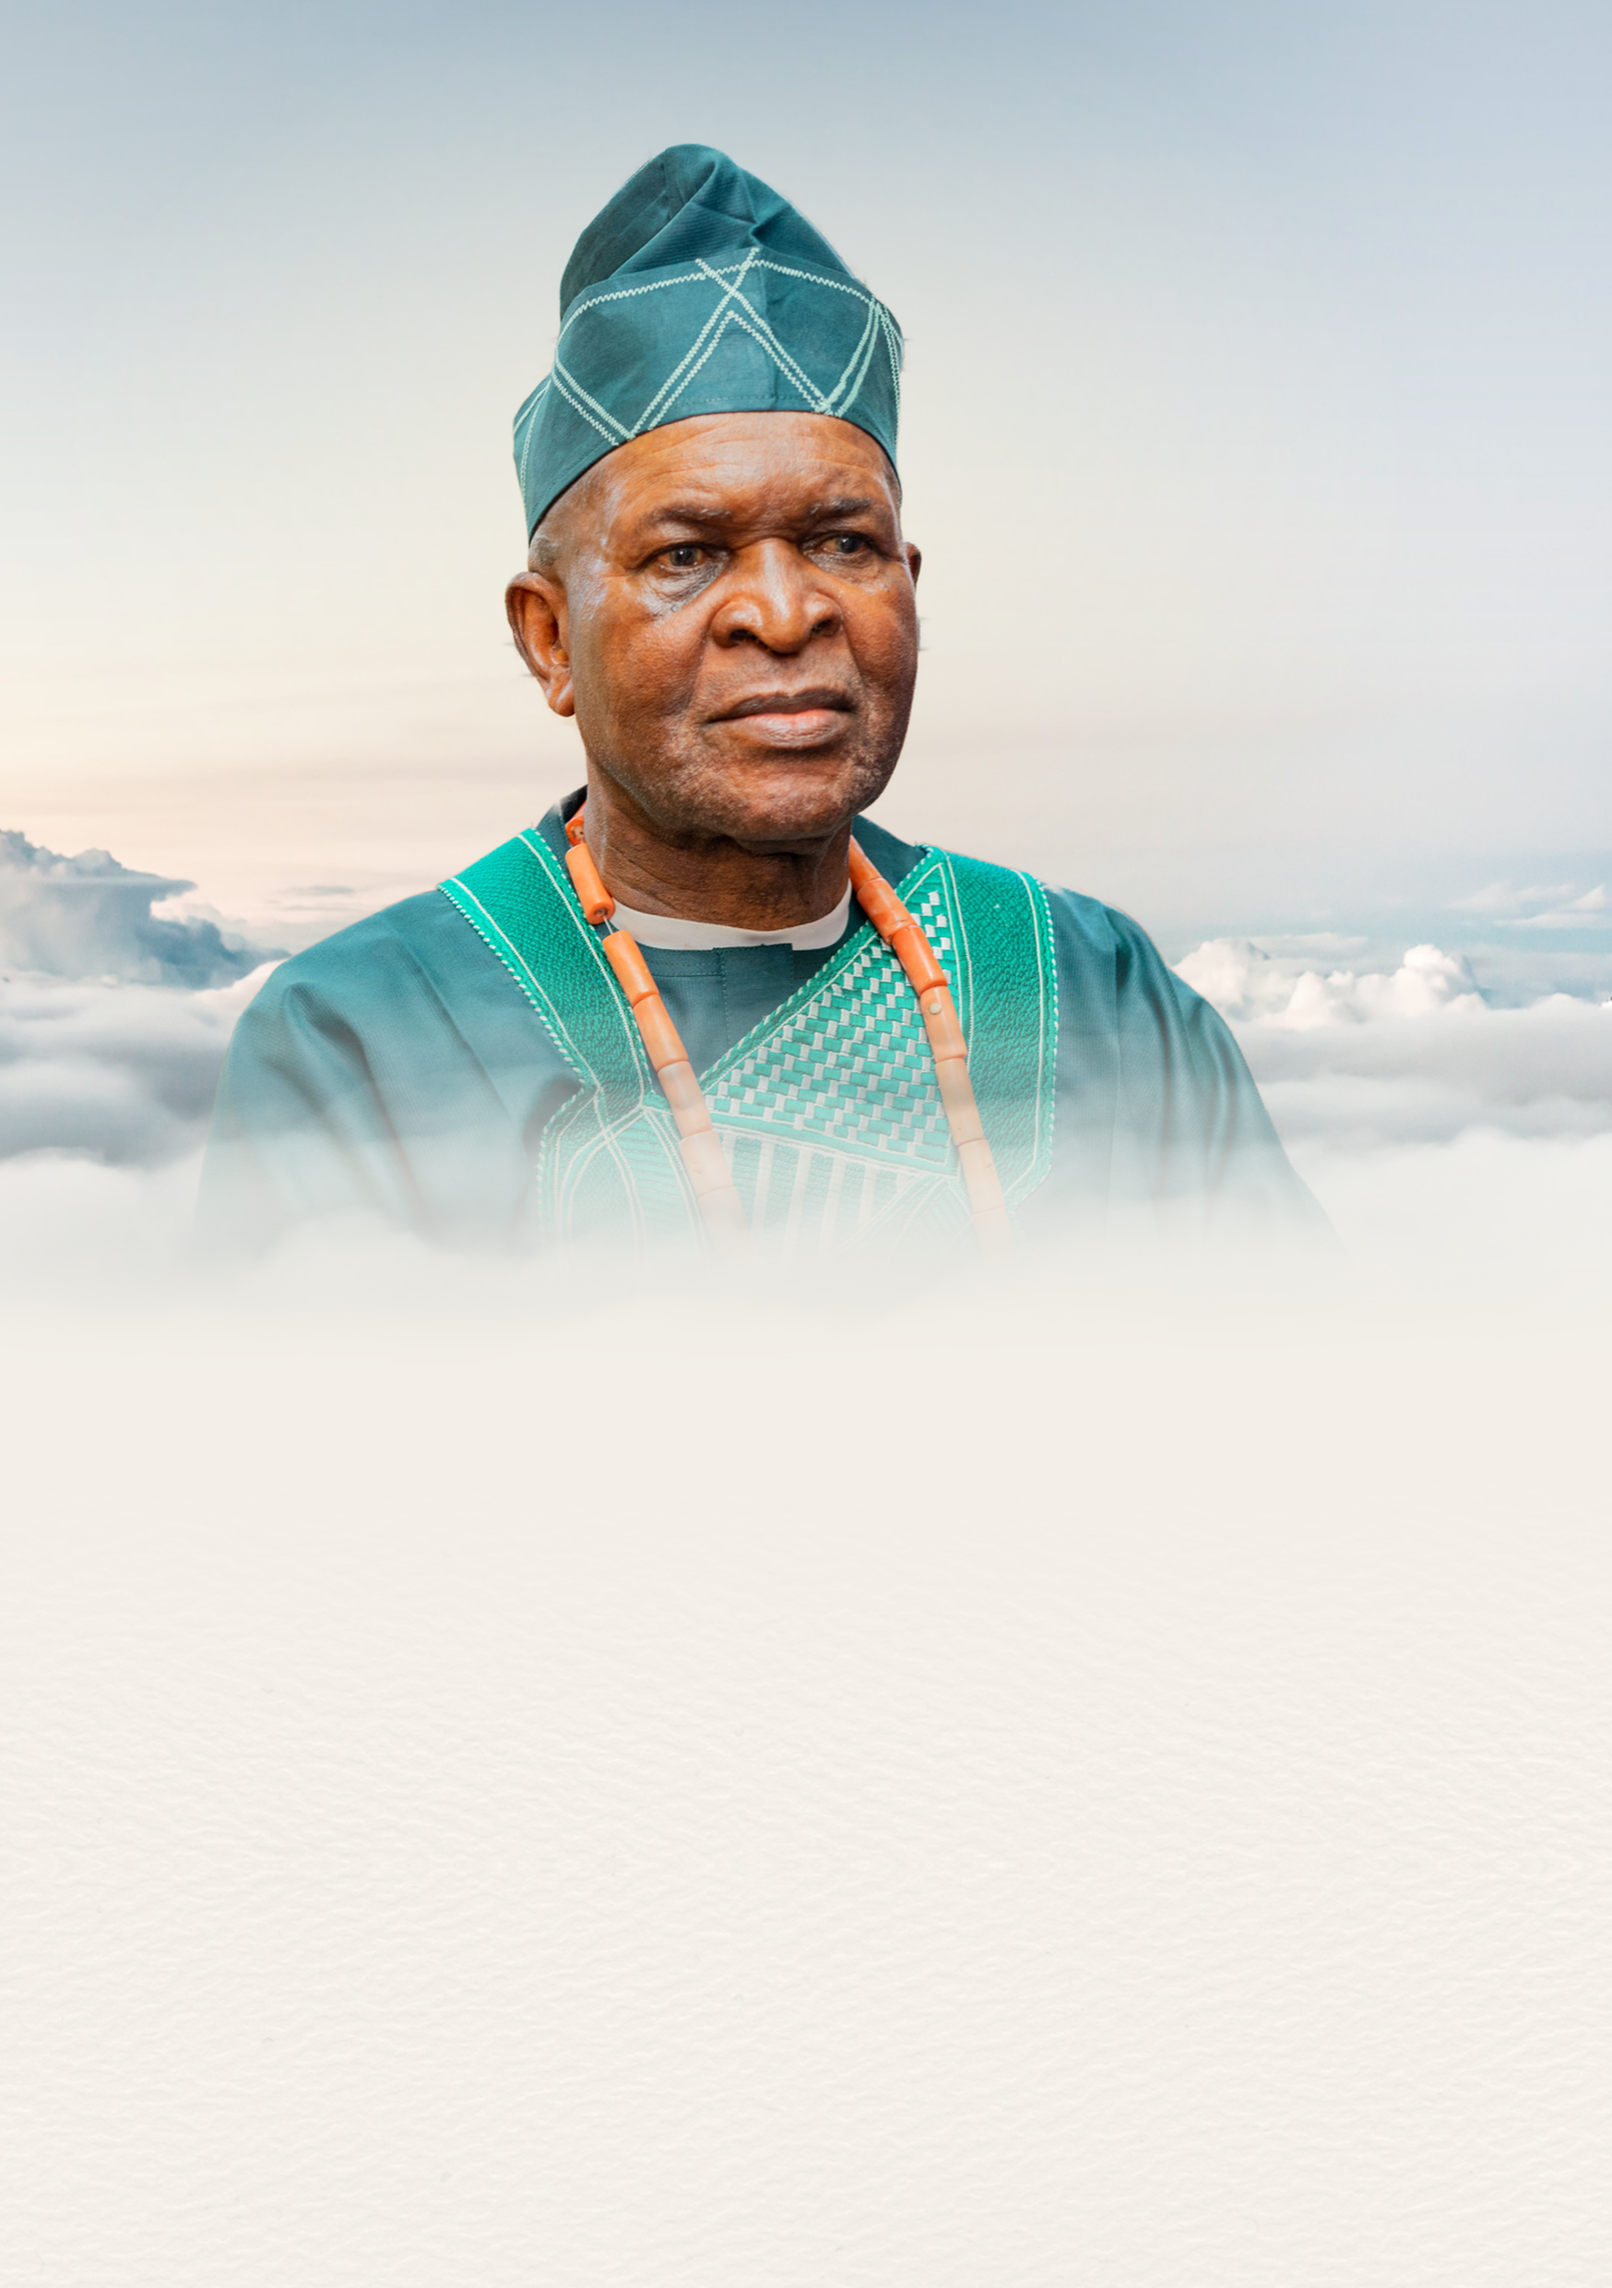
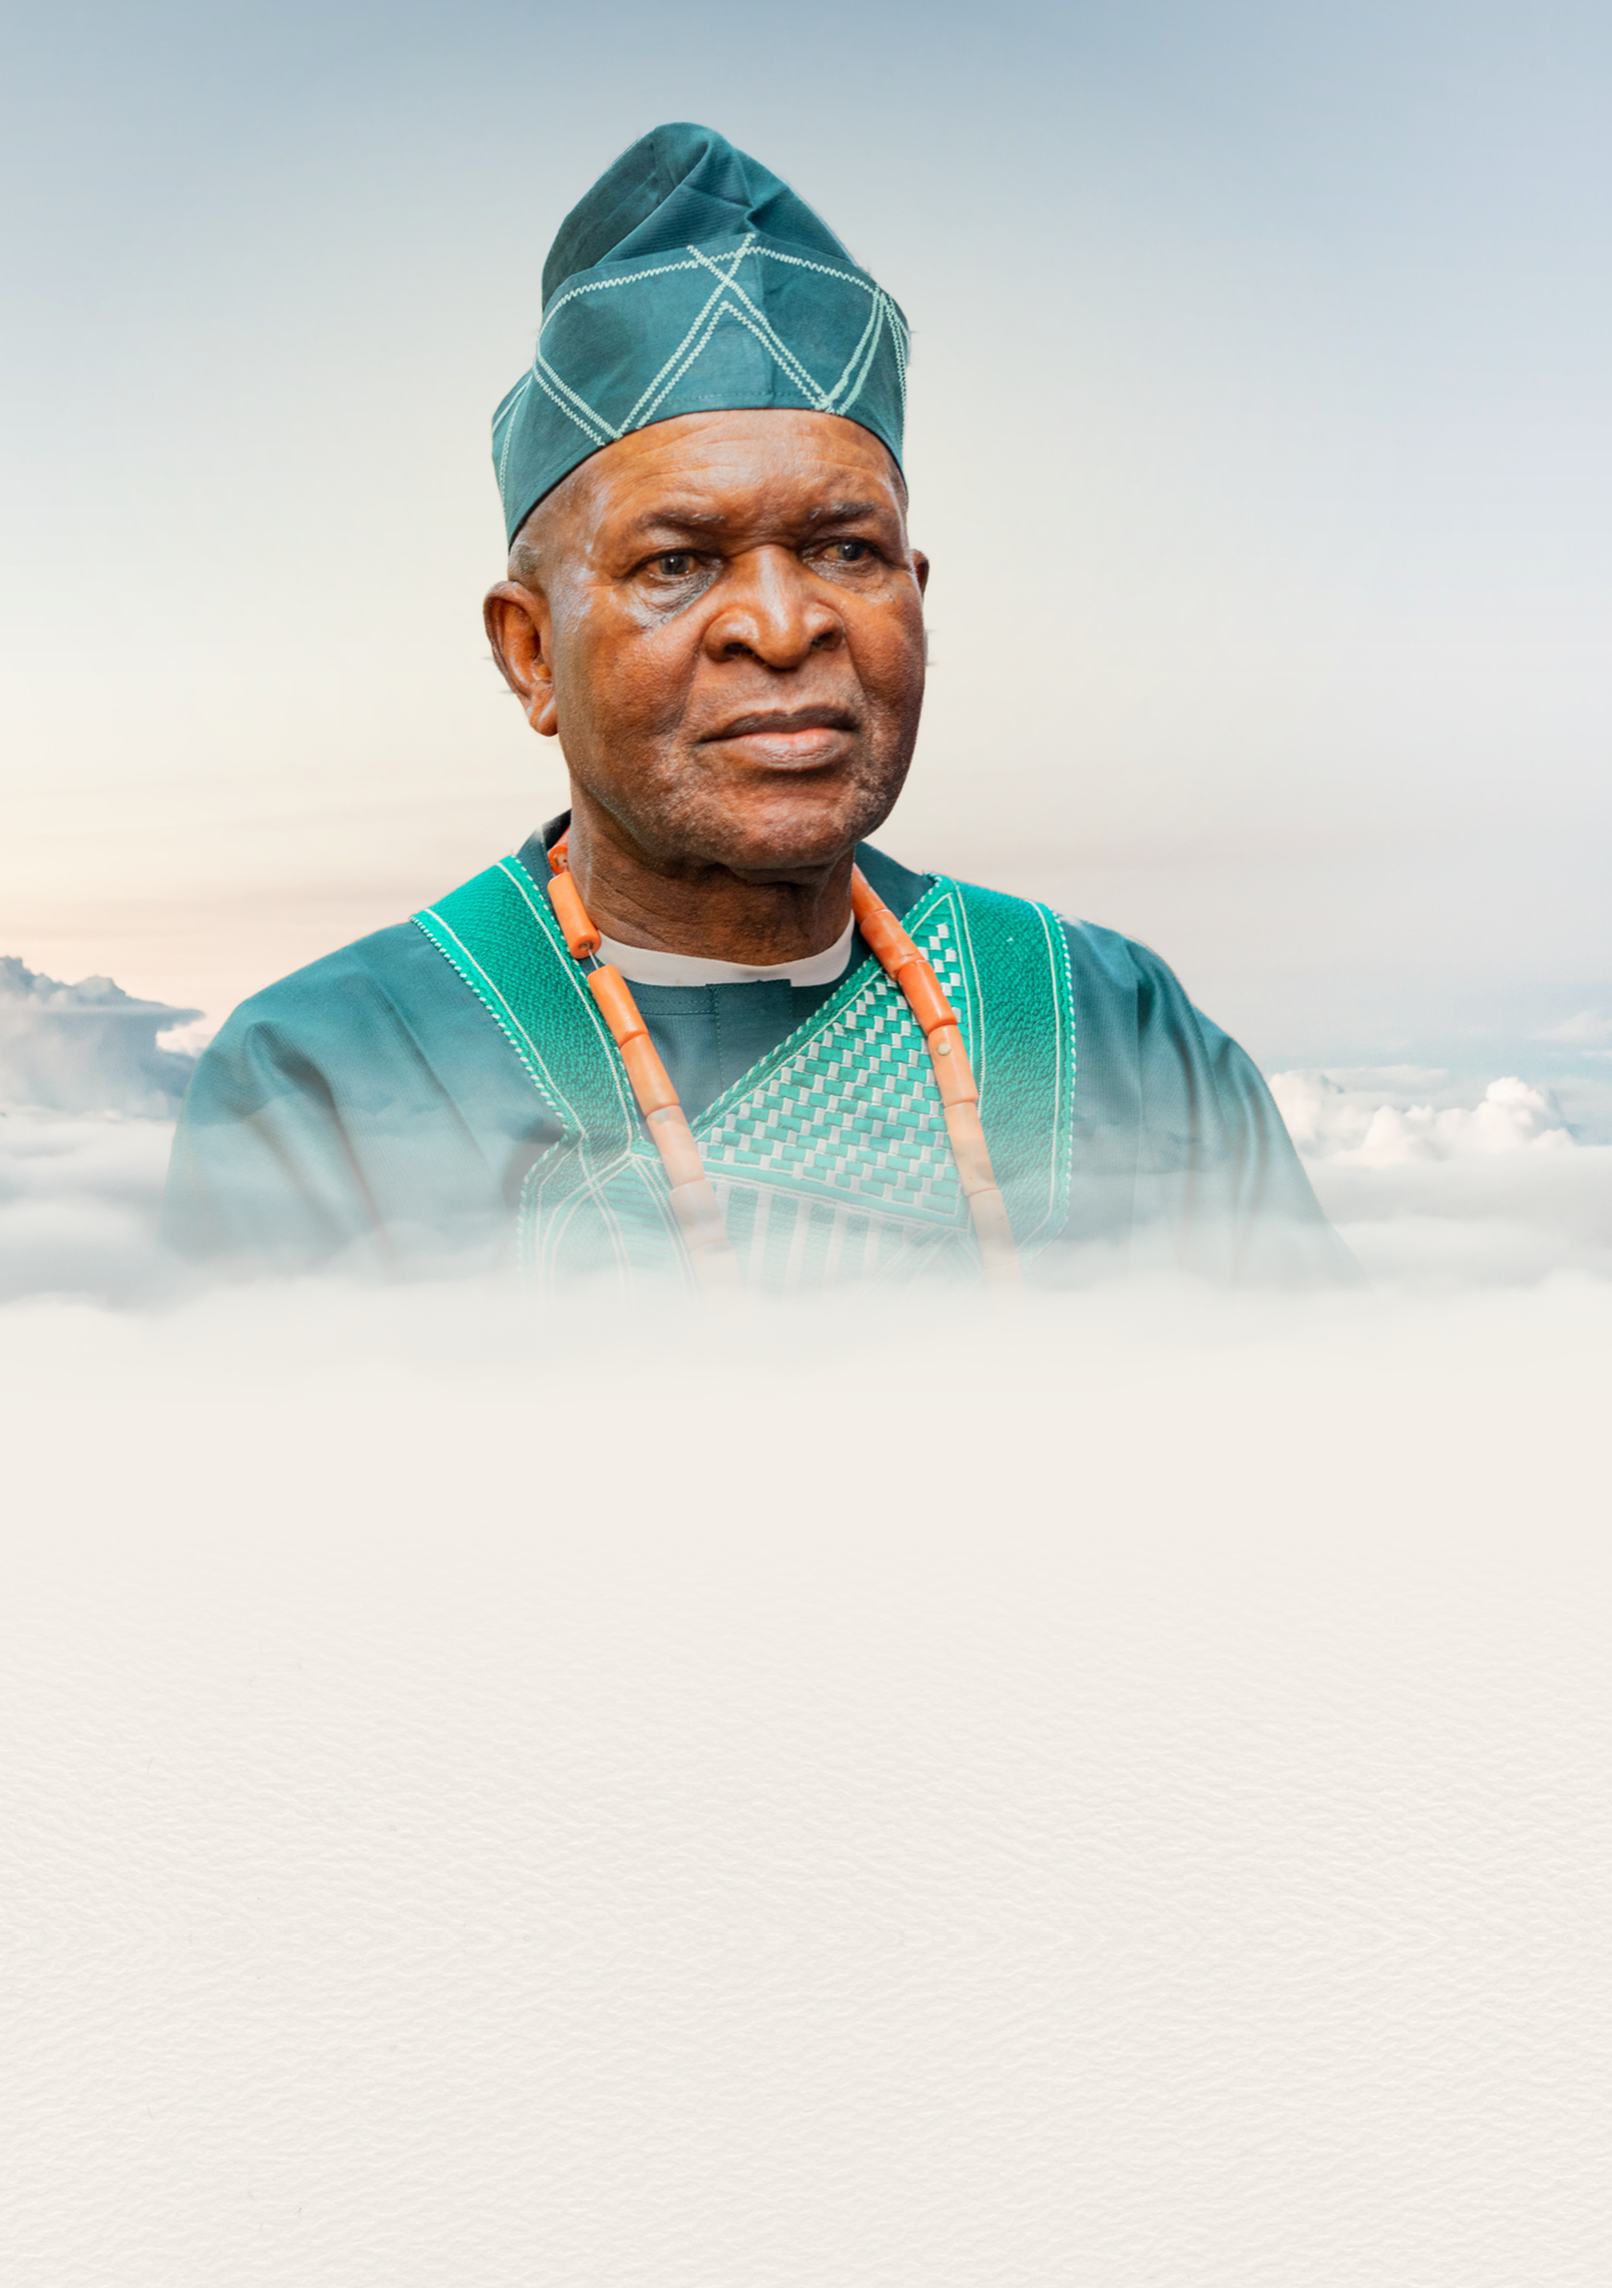
- include age in cover - a more prominent cover subject

Changed region(s): [[0.0, 0.031, 1.0, 0.5899], [0.9886, 0.4968, 1.0, 0.5589]]

diff --git a/sections/01-cover.tex b/sections/01-cover.tex
@@ -2,41 +2,44 @@
 
 \pageghost{cover-sky}
 
-% Type sits in the lower third, on the ivory rather than on the photograph.
-% Set in Cormorant Garamond and EB Garamond, which the booklet uses on this
-% page alone -- see the cover typography block in main.tex.
+% The backdrop gives the photograph the top three-fifths of the sheet and the
+% type the rest, so this block is cut to about 66mm: everything below is set
+% tight and small, and the one element allowed to take room is the medallion
+% carrying his age. Set in Cormorant Garamond and EB Garamond, which the
+% booklet uses on the two cover pages alone -- see main.tex.
 \vspace*{\fill}
 
 \begin{center}
   % A shade darker than the accent grey the other small lines take: this one
   % line falls on the mist at the foot of his robe rather than on clean stock,
   % and grey on grey is where a letterspaced 8pt line disappears.
-  {\coverface\fontsize{8.5}{11}\selectfont\color{primary!60}
+  {\coverface\fontsize{8}{10}\selectfont\color{primary!60}
     \coverline{In Loving Memory of}\par}
 
-  \vspace{5mm}
-  {\coverlight\fontsize{28}{32}\selectfont\color{primary}
+  \vspace{3.5mm}
+  {\coverlight\fontsize{24}{27}\selectfont\color{primary}
     \textls[25]{Franco Nero International}\par}
 
-  \vspace{3mm}
-  {\coverdisplay\itshape\fontsize{14}{17}\selectfont\color{accent}
+  \vspace{2mm}
+  {\coverdisplay\itshape\fontsize{12.5}{15}\selectfont\color{accent}
     ``De Sky Man''\par}
 
-  \vspace{5mm}
-  \diamondrule{16mm}{1.1mm}\par
-  \vspace{5.5mm}
+  \vspace{4.5mm}
+  \agemedallion{80}\par
+  \vspace{4.5mm}
 
-  {\coverface\fontsize{10.5}{13}\selectfont\color{accent}
+  {\coverface\fontsize{9.5}{12}\selectfont\color{accent}
     10\textsuperscript{th} October 1946 \enspace--\enspace
     15\textsuperscript{th} August 2026\par}
 
-  \vspace{7.5mm}
-  {\coverface\fontsize{9}{12}\selectfont\color{primary}
-    \coverline[160]{Monday, 28\textsuperscript{th} September 2026}\par}
+  \vspace{5mm}
+  {\coverface\fontsize{8.5}{11}\selectfont\color{primary}
+    \coverline[150]{Monday, 28\textsuperscript{th} September 2026}
+    \enspace\textperiodcentered\enspace
+    \coverline[150]{4:00 pm}\par}
 
-  \vspace{2.5mm}
-  {\coverface\fontsize{9}{12.5}\selectfont\color{accent}
-    Service at 4:00 PM\par
+  \vspace{2mm}
+  {\coverface\fontsize{8.5}{12}\selectfont\color{accent}
     St.\ Jude Catholic Church, Iwogban, Ikpoba Hill, Benin City\par
     {\itshape Officiating: Reverend Thomas Davies}\par}
 \end{center}

diff --git a/main.tex b/main.tex
@@ -458,6 +458,28 @@
 \newcommand{\coverlight}{\coverdisplay\fontseries{l}\selectfont}
 \newcommand{\coverface}{\fontfamily{EBGaramond-TOsF}\selectfont}
 
+% The age, as the cover's centrepiece: a hairline running the width of the
+% text block, broken by a ring with the years in it. It is the same idea as
+% \diamondrule -- a rule interrupted -- so it belongs to the same family as
+% the ornament on the tribute pages, and it is drawn rather than assembled
+% from a box and a rule so the hairline can meet the ring exactly.
+% #1 the number of years.
+\newcommand{\agemedallion}[1]{%
+  \begin{tikzpicture}[inner sep=0pt,outer sep=0pt]
+    \draw[rulecolor,line width=0.3pt] (-31mm,0) -- (-9.5mm,0);
+    \draw[rulecolor,line width=0.3pt] (9.5mm,0) -- (31mm,0);
+    \draw[rulecolor,line width=0.4pt] (0,0) circle (7.5mm);
+    % Lining figures here, not the old-style ones the dates take: inside a
+    % ring the two digits want to be the same height and sit on one line,
+    % where old-style would set "80" as an ascender beside an x-height o.
+    \node at (0,1.1mm) {%
+      \fontfamily{CormorantGaramond-TLF}\fontseries{l}\selectfont
+      \fontsize{17}{17}\selectfont\color{primary}#1};
+    \node at (0,-4.1mm) {%
+      \coverface\fontsize{6}{6}\selectfont\color{accent}\coverline[260]{years}};
+  \end{tikzpicture}%
+}
+
 % A small line in letterspaced small capitals. The tracking is what makes it
 % read as quiet rather than as shouting: at this size and this colour the
 % words are barely there, which is the intention.
